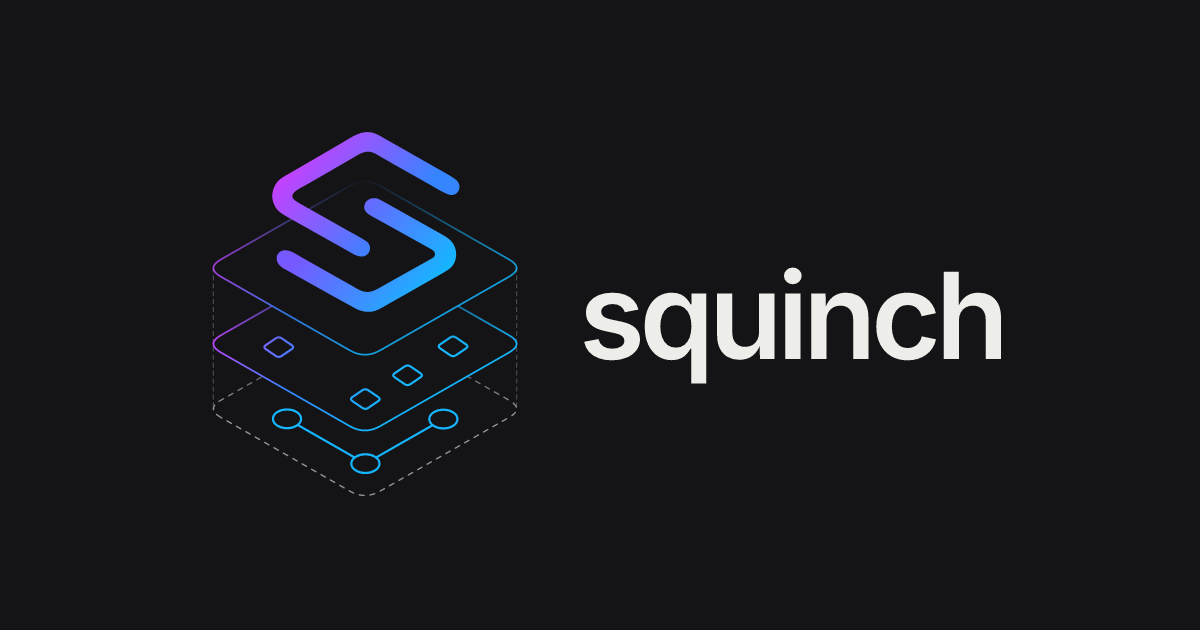
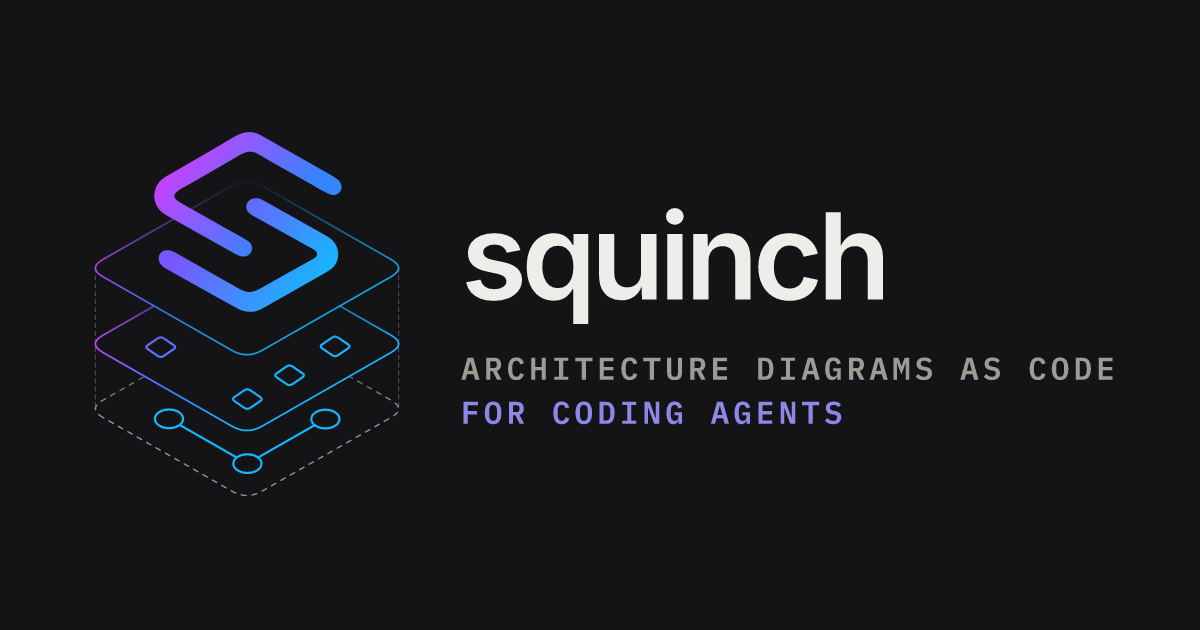
site: the social card carries the landing's tagline
og.png is the landing's h1 lockup at three times the size: the layered mark,
the wordmark in Inter 600, and under it the two eyebrow lines — "architecture
diagrams as code" and, in the accent, "for coding agents" — in IBM Plex Mono
600, tracked 0.12em and uppercased, exactly as .hero-brand sets them. Every
size, gap and tracking in scripts/og.mts is site.css's number scaled, so the
card and the page share one source of truth.

Core bundles only the 400 weight of Plex Mono for the renderer, so the script
cuts the 600 from core's own @fontsource package at run time, the way
gen-fonts cuts the bundled faces; nothing is fetched and no system font is
consulted, and the PNG regenerates byte-identically.

One fix found on the way: resvg matches font-family against the name inside
the file, and a single-weight file names its weight — the bundled Inter 600 is
"Inter SemiBold", the Plex Mono 600 "IBM Plex Mono SemiBold". Asking for
"Inter" only ever worked because it was the one face loaded; with two faces,
both texts fell back to Inter and the tagline came out in the wrong font. The
family names are now read from the files with fontkit, never typed.

The og:image:alt on every page describes the tagline.

diff --git a/apps/spa/scripts/sync-lookbook.ts b/apps/spa/scripts/sync-lookbook.ts
@@ -161,7 +161,7 @@ const html = `<!doctype html>
     <meta property="og:image" content="https://squinch.cc/og.png" />
     <meta property="og:image:width" content="1200" />
     <meta property="og:image:height" content="630" />
-    <meta property="og:image:alt" content="The Squinch mark — an S standing on three stacked isometric planes — beside the wordmark" />
+    <meta property="og:image:alt" content="The Squinch mark — an S standing on three stacked isometric planes — beside the wordmark and, under it, the line “architecture diagrams as code, for coding agents”" />
     <meta property="og:url" content="https://squinch.cc/lookbook/" />
     <meta name="twitter:card" content="summary_large_image" />
     <link rel="preconnect" href="https://fonts.googleapis.com" />

diff --git a/apps/spa/compare/index.html b/apps/spa/compare/index.html
@@ -16,7 +16,7 @@
     <meta property="og:image" content="https://squinch.cc/og.png" />
     <meta property="og:image:width" content="1200" />
     <meta property="og:image:height" content="630" />
-    <meta property="og:image:alt" content="The Squinch mark — an S standing on three stacked isometric planes — beside the wordmark" />
+    <meta property="og:image:alt" content="The Squinch mark — an S standing on three stacked isometric planes — beside the wordmark and, under it, the line “architecture diagrams as code, for coding agents”" />
     <meta property="og:url" content="https://squinch.cc/compare/" />
     <meta name="twitter:card" content="summary_large_image" />
     <link rel="preconnect" href="https://fonts.googleapis.com" />

diff --git a/apps/spa/install/index.html b/apps/spa/install/index.html
@@ -16,7 +16,7 @@
     <meta property="og:image" content="https://squinch.cc/og.png" />
     <meta property="og:image:width" content="1200" />
     <meta property="og:image:height" content="630" />
-    <meta property="og:image:alt" content="The Squinch mark — an S standing on three stacked isometric planes — beside the wordmark" />
+    <meta property="og:image:alt" content="The Squinch mark — an S standing on three stacked isometric planes — beside the wordmark and, under it, the line “architecture diagrams as code, for coding agents”" />
     <meta property="og:url" content="https://squinch.cc/install/" />
     <meta name="twitter:card" content="summary_large_image" />
     <link rel="preconnect" href="https://fonts.googleapis.com" />

diff --git a/apps/spa/index.html b/apps/spa/index.html
@@ -16,7 +16,7 @@
     <meta property="og:image" content="https://squinch.cc/og.png" />
     <meta property="og:image:width" content="1200" />
     <meta property="og:image:height" content="630" />
-    <meta property="og:image:alt" content="The Squinch mark — an S standing on three stacked isometric planes — beside the wordmark" />
+    <meta property="og:image:alt" content="The Squinch mark — an S standing on three stacked isometric planes — beside the wordmark and, under it, the line “architecture diagrams as code, for coding agents”" />
     <meta property="og:url" content="https://squinch.cc/" />
     <meta name="twitter:card" content="summary_large_image" />
     <script type="application/ld+json">

diff --git a/apps/spa/playground/index.html b/apps/spa/playground/index.html
@@ -17,7 +17,7 @@
     <meta property="og:image" content="https://squinch.cc/og.png" />
     <meta property="og:image:width" content="1200" />
     <meta property="og:image:height" content="630" />
-    <meta property="og:image:alt" content="The Squinch mark — an S standing on three stacked isometric planes — beside the wordmark" />
+    <meta property="og:image:alt" content="The Squinch mark — an S standing on three stacked isometric planes — beside the wordmark and, under it, the line “architecture diagrams as code, for coding agents”" />
     <meta property="og:url" content="https://squinch.cc/playground/" />
     <meta name="twitter:card" content="summary_large_image" />
     <script>

diff --git a/CLAUDE.md b/CLAUDE.md
@@ -450,9 +450,12 @@ The architecture it certified is still enforced by the corpus invariant sweep.
   `docs/assets/mark.svg`. Maintainer-only; its header records the measurements
   the shape was reconstructed from.
 - `npx tsx scripts/og.mts` — regenerate `apps/spa/public/og.png`, the social
-  card: the layered mark lifted from `mark-stack.svg` beside the wordmark in
-  the bundled Inter 600, rasterised by resvg with system fonts off. Re-run
-  after a recolour; the lockup is the whole card, there is no tagline.
+  card: the landing's h1 lockup (`.hero-brand`) at three times the size — the
+  layered mark lifted from `mark-stack.svg` beside the wordmark in the bundled
+  Inter 600 and the two eyebrow lines in IBM Plex Mono 600, cut from core's
+  `@fontsource` source face at run time — rasterised by resvg with system
+  fonts off. Re-run after a recolour or a change to the lockup's copy; the
+  numbers in the script are `site.css`'s, scaled, so change them there first.
 - VS Code extension: <kbd>F5</kbd> ("Run Squinch extension") bundles core + the
   extension and opens `examples/` in a dev host; or
   `pnpm --filter squinch-vscode build`.
